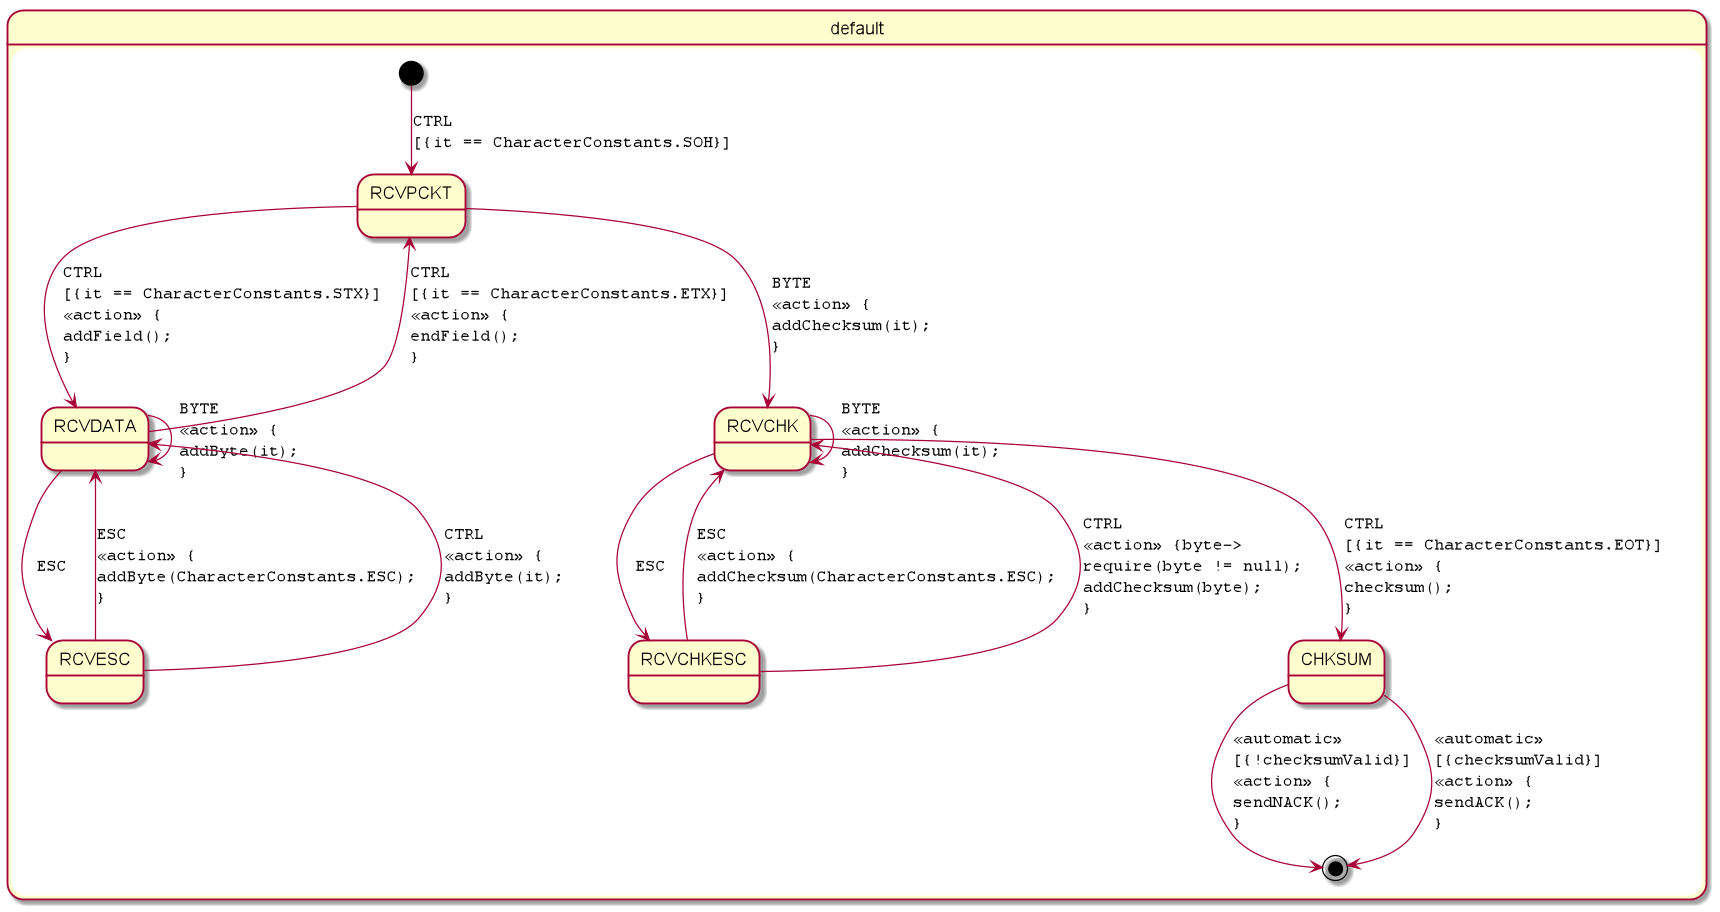
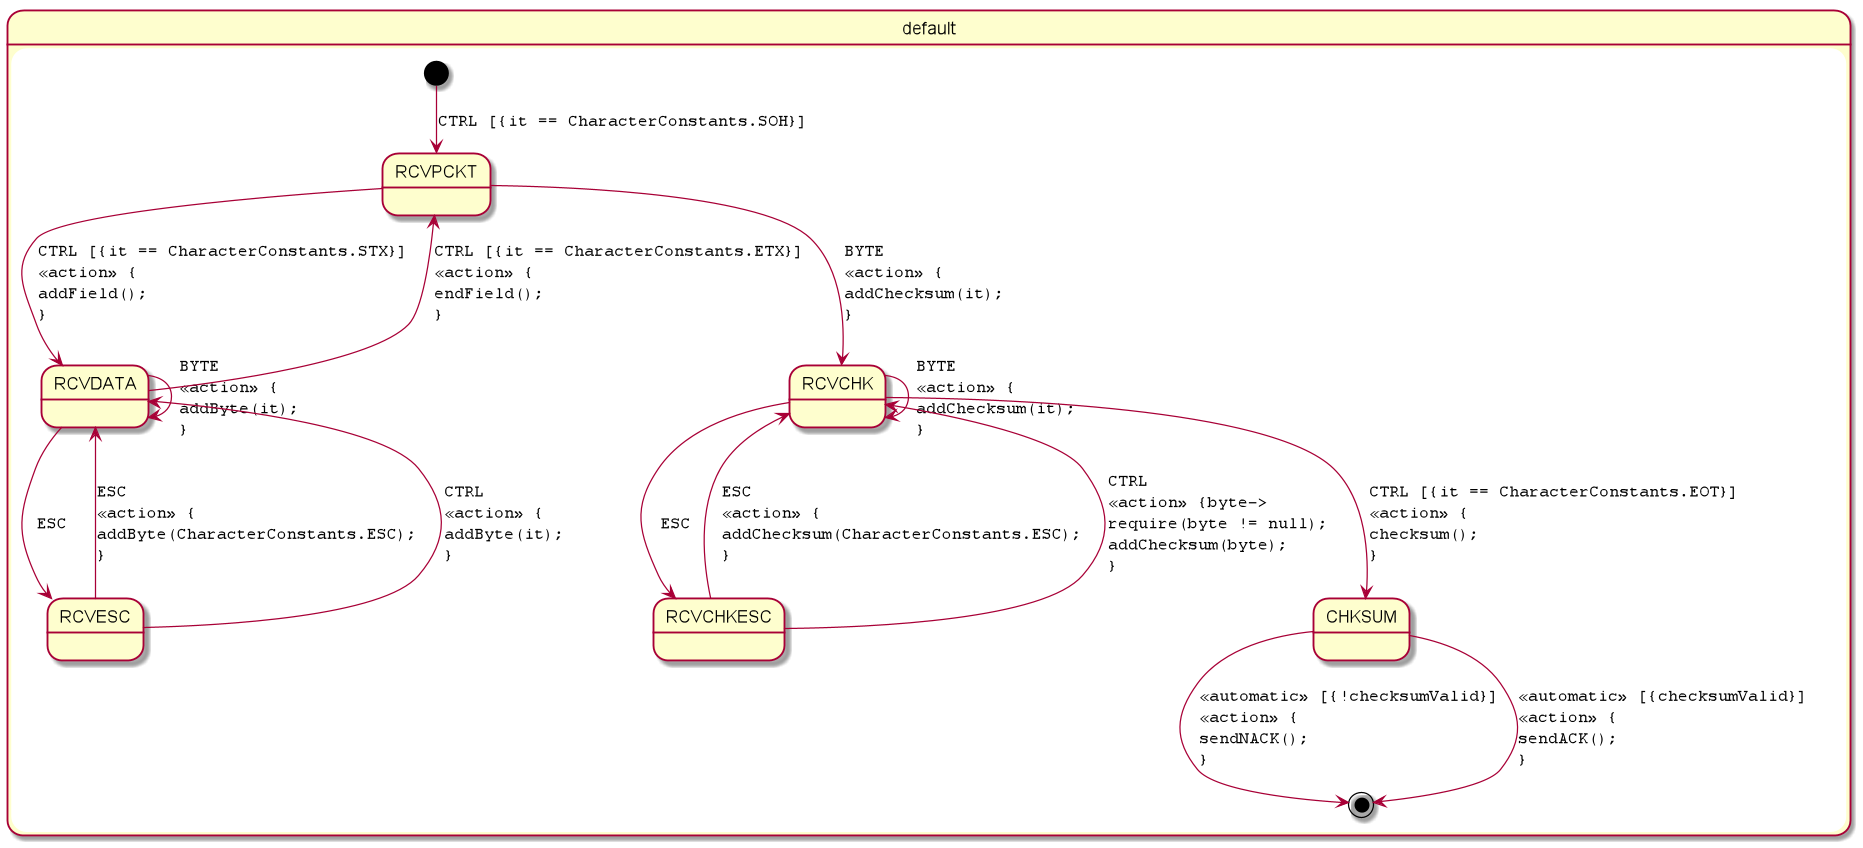
updated diagram images

diff --git a/src/main/kotlin/visualization.kt b/src/main/kotlin/visualization.kt
@@ -17,7 +17,7 @@ private fun printPlantUmlTransition(transition: VisualTransition, output: PrintW
     }
     if (transition.guard != null) {
         val guard = transition.guard!!.replace("\n", "\\l").replace("\r", "")
-        output.print("\\l[$guard]")
+        output.print(" [$guard]")
     }
 
     if (transition.action != null && transition?.action?.trim() != "{}") {
